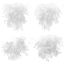
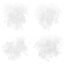
render | improved torch flames and smoke

diff --git a/src/engine/worldio.cpp b/src/engine/worldio.cpp
@@ -225,13 +225,13 @@ struct worldcubedefinition
 
 struct worldscatterdefinition
 {
-    string name, model;
+    string name, model, icon;
     int mapmodel;
     bool torch;
 
     worldscatterdefinition() : mapmodel(-1), torch(false)
     {
-        name[0] = model[0] = '\0';
+        name[0] = model[0] = icon[0] = '\0';
     }
 };
 
@@ -296,7 +296,9 @@ const char *getworldscattericon(int index)
 {
     static string iconpath;
     if(!worldscatterdefinitions.inrange(index)) return "";
-    formatstring(iconpath, "media/model/%s/diffuse.png", worldscatterdefinitions[index]->model);
+    const worldscatterdefinition &type = *worldscatterdefinitions[index];
+    if(type.icon[0]) return type.icon;
+    formatstring(iconpath, "media/model/%s/diffuse.png", type.model);
     return iconpath;
 }
 
@@ -380,6 +382,7 @@ static void defineworldscatter(const char *name, const char *model, bool torch)
     if(!type) type = worldscatterdefinitions.add(new worldscatterdefinition);
     copystring(type->name, name);
     copystring(type->model, model);
+    type->icon[0] = '\0';
     type->torch = torch;
 }
 
@@ -405,6 +408,39 @@ static int loadworldtextureslot(const char *path, float texsize, bool alpha)
                      texture, texsize);
     execute(command);
     return slots.last()->variants->index;
+}
+
+static bool findworldscatterimage(const char *model, const char *basename, string &imagepath)
+{
+    defformatstring(directory, "media/model/%s", model);
+    vector<char *> files;
+    listfiles(directory, NULL, files);
+    files.sort();
+
+    const size_t baselen = strlen(basename);
+    loopv(files)
+    {
+        const char *filename = files[i];
+        if(cubecasecmp(filename, basename, baselen) ||
+           filename[baselen] != '.' || !filename[baselen + 1])
+            continue;
+
+        defformatstring(candidate, "%s/%s", directory, filename);
+        if(textureload(candidate, 3, true, false) == notexture) continue;
+        copystring(imagepath, candidate);
+        files.deletecontents();
+        return true;
+    }
+    files.deletecontents();
+    return false;
+}
+
+static void resolveworldscattericon(worldscatterdefinition &type)
+{
+    type.icon[0] = '\0';
+    if(findworldscatterimage(type.model, "logo", type.icon)) return;
+    if(findworldscatterimage(type.model, "diffuse", type.icon)) return;
+    formatstring(type.icon, "media/model/%s/diffuse.png", type.model);
 }
 
 static bool loadworlddefinitions()
@@ -464,6 +500,7 @@ static bool loadworlddefinitions()
     loopv(worldscatterdefinitions)
     {
         worldscatterdefinition &type = *worldscatterdefinitions[i];
+        resolveworldscattericon(type);
         type.mapmodel = registermapmodelpath(type.model);
         if(type.mapmodel < 0 || !loadmapmodel(type.mapmodel))
         {
@@ -4111,15 +4148,13 @@ void addworldtorchparticles()
         loopvj(chunk.scatter)
         {
             const worldscatterinstance &scatter = chunk.scatter[j];
-            if(!isworldtorch(scatter.type) ||
-               !worldscattermounted(chunk, scatter))
-                continue;
+            if(!isworldtorch(scatter.type) || !worldscattermounted(chunk, scatter)) continue;
 
             vec flame;
             if(!worldtorchflameposition(chunk, scatter, settings.grassmaxoffset, flame)) continue;
             if(flame.squaredist(camera1->o) > maxdistancesquared) continue;
-            regular_particle_flame(PART_FLAME, flame, 0.8f, 0.7f, 0xFF7628, 1, 2.4f, 35.0f, 220.0f, -50);
-            regular_particle_flame(PART_SMOKE, flame, 1.2f, 1.1f, 0x4A443E, 1, 3.0f, 16.0f, 1100.0f, -150);
+            regular_particle_flame(PART_FLAME, flame, 0.7f, 0.7f, 0xFF8628, 1, 2.4f, 35.0f, 220.0f, -10);
+            regular_particle_flame(PART_SMOKE, flame, 0.9f, 1.1f, 0xAA8C4E, 1, 3.0f, 16.0f, 1100.0f, -25);
         }
     }
 }

diff --git a/src/game/game.cpp b/src/game/game.cpp
@@ -949,8 +949,8 @@ namespace game
         addworldtorchparticles();
         vec flame;
         if(!heldtorchflame(flame)) return;
-        regular_particle_flame(PART_FLAME, flame, 0.3f, 0.55f, 0xFF7628, 1, 2.2f, 30.0f, 180.0f, -8);
-        regular_particle_flame(PART_SMOKE, flame, 0.22f, 0.9f, 0x4A443E, 1, 2.7f, 14.0f, 900.0f, -10);
+        regular_particle_flame(PART_FLAME, flame, 0.35f, 0.7f, 0xFF8628, 1, 2.4f, 35.0f, 220.0f, -10);
+        regular_particle_flame(PART_SMOKE, flame, 0.45f, 1.1f, 0xAA8C4E, 1, 3.0f, 16.0f, 1100.0f, -25);
     }
     void particletrack(physent *owner, vec &o, vec &d) {}
     void dynlighttrack(physent *owner, vec &o, vec &hud) {}
